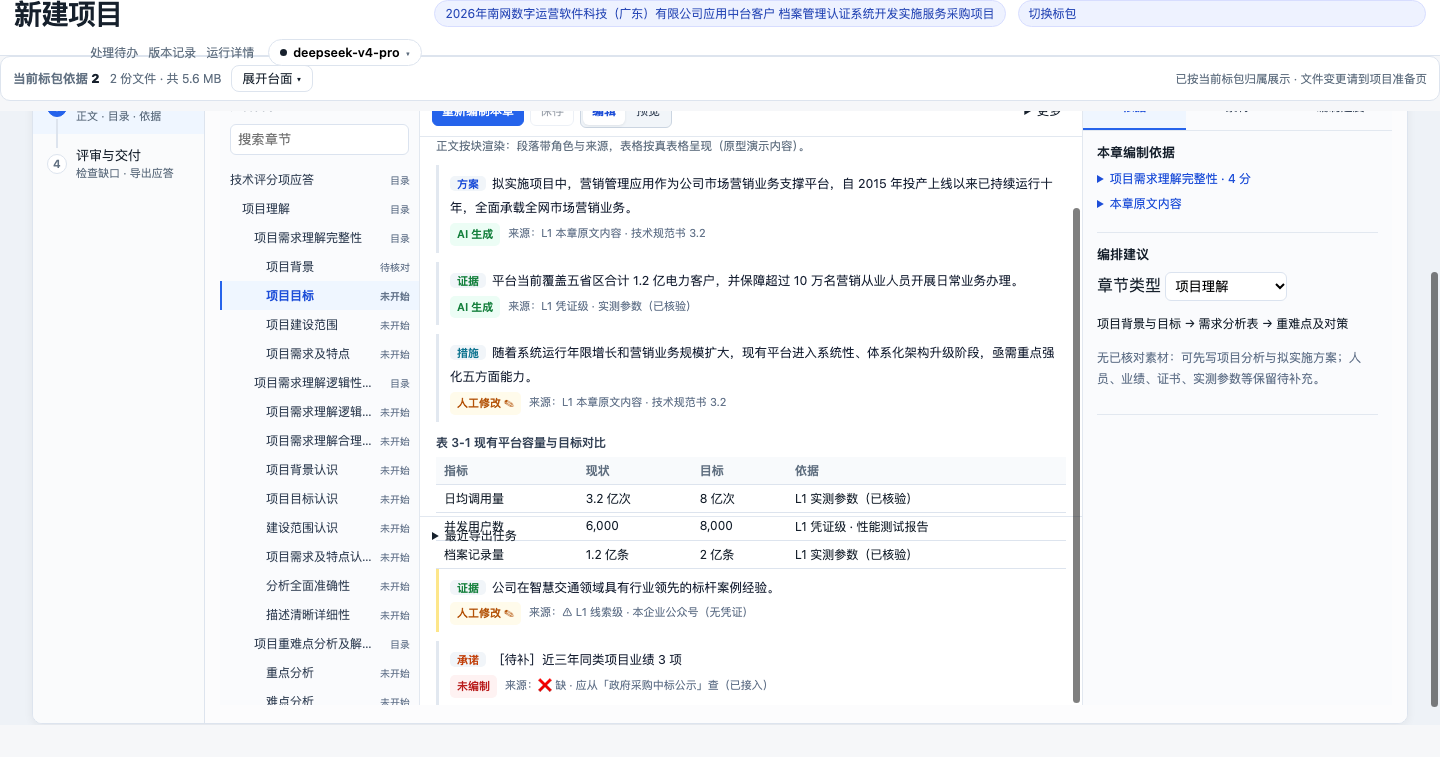
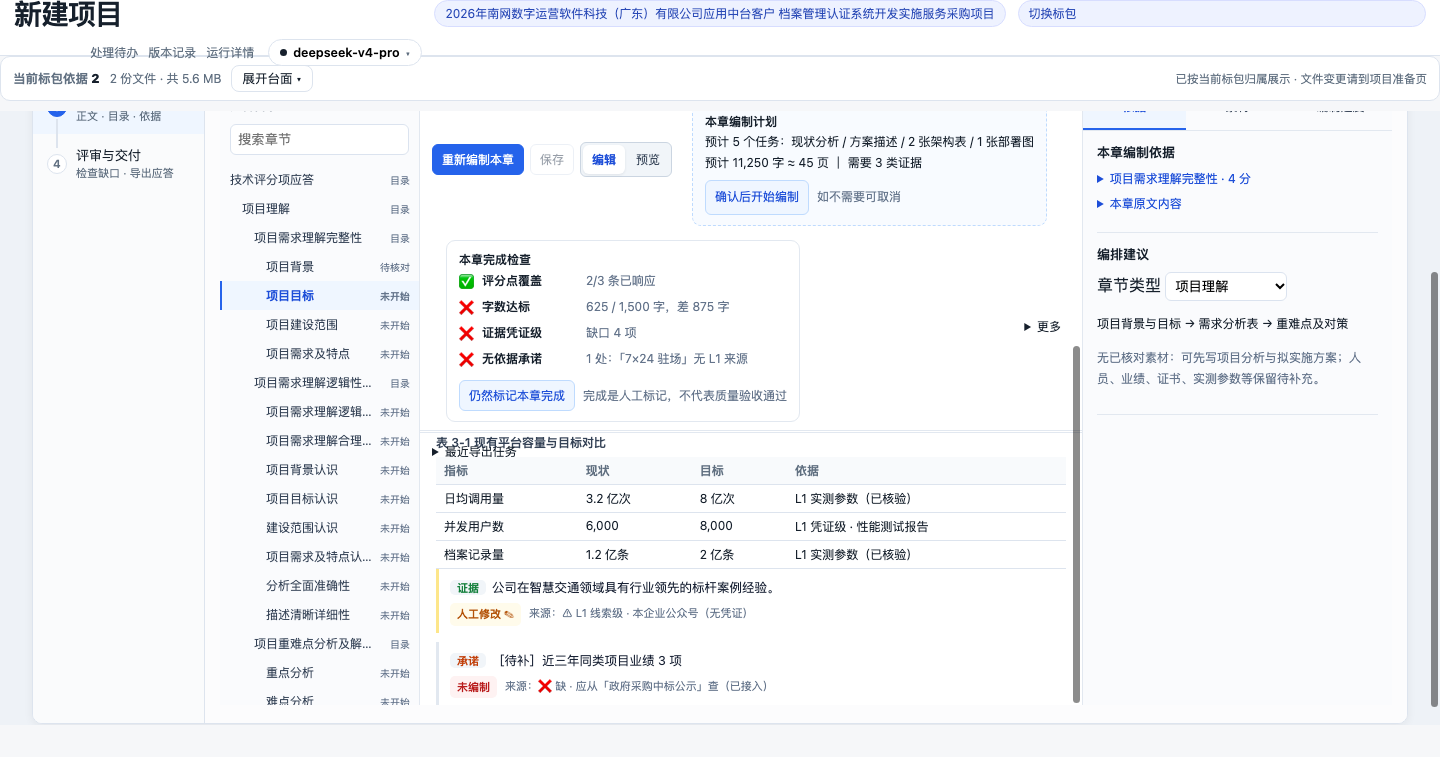
docs(design): 篇幅改为"目录行内一列"（按总篇幅分配），去掉单独的第二张表
用户要求：目录和篇幅结合，或者只在当前目录上增加单独一列，按总篇幅分配每个章节目录的页数。

## 改动
- **删掉**上一版单独的「篇幅要求」表（那是把目录复制了一遍）
- 在**真实目录的每一行**上插入一个页数单元 `.sr-erow-pages`（插在 `.sr-erow-acts` 之前，
  与行内「评分项 / 评分点」标签同一行、右对齐），165 行全部注入
- 可分配层级为一级/二级（18 章）：显示可编辑页数 + 「已调整」标记；
  更深层级不参与分配，单元格留空
- 阶段②只保留一条**控制条**：总页数、来源、按总篇幅分配、清除手工调整、
  「分配合计 N 页 / 共 M 章」与合计校验、确认篇幅
- 分配算法不变：分值 × 章节类型系数 → 最大余额法保证合计精确等于总页数；
  手工改过的行固定、其余章节吸收差额

## 实测
```
165 个真实目录行 → 165 个页数单元，其中 18 行可填
初始 120 页 → 分配合计 120「合计与需求一致」
总页数改 150 → 自动重算，合计精确 150
编写阶段不受影响：块级正文含真表格、AI 编制→计划预览、确认本章完成→四项检查
无 JS 错误
```

diff --git a/docs/design/mockups/prod-prototype.html b/docs/design/mockups/prod-prototype.html
@@ -11926,20 +11926,19 @@ GB/T 35274-2023《数据安全技术 大数据服务安全能力要求》
       <div class="response-confirm-bar"><div><strong>目录已确认</strong><span>可直接进入编写，随时查看目录与依据</span></div><button class="mw-btn primary" data-act="response-write">进入技术应答编写</button></div><div class="response-confirm-feedback" data-confirm-feedback="" role="status" aria-live="polite" hidden=""></div>
     <div class="response-coverage"><strong>重点与点对点检查</strong><span>重点要求前部承接 6 / 19</span><span>明确风险要求已安排 0 / 0</span><span>原文章节 68 / 68</span><span>标题、层级与顺序一致</span><span>要求归属 411 / 411</span><span class="sr-dim">仅检查承接位置，正文响应质量待编写后核对。</span></div><details class="response-landing-warning"><summary>建议前部突出 13 条重点要求 · 不影响确认</summary><p>以下要求已在点对点应答中安排，可结合评分章节补充说明，无需恢复原来的独立章节。</p><ul><li>1. 总则 &gt; 1.3. 对技术投标文件的编制要求</li><li>1. 总则 &gt; 1.3. 对技术投标文件的编制要求 &gt; 五、其他 · 第 1 条</li><li>2. 项目描述 &gt; 2.4. 项目依据</li><li>4. 项目实施 &gt; 4.1. 组织保障要求</li><li>4. 项目实施 &gt; 4.2. 项目组织人员要求 &gt; 4.2.1. 项目经理要求</li><li>4. 项目实施 &gt; 4.2. 项目组织人员要求 &gt; 4.2.2. 项目服务团队要求 · 第 1 条</li><li>4. 项目实施 &gt; 4.4. 联络会议 &gt; 4.4.2. 项目联络会</li><li>4. 项目实施 &gt; 4.5. 质量要求</li><li>4. 项目实施 &gt; 4.6. 项目验收要求 &gt; 4.6.1. 验收标准</li><li>5. 项目售后服务和技术支持 &gt; 5.1. 售后服务总体要求</li><li>5. 项目售后服务和技术支持 &gt; 5.2. 应急预案</li><li>5. 项目售后服务和技术支持 &gt; 5.4. 技术维护支持 &gt; 5.4.1. 技术维护支持服务</li><li>6. 安全保密要求 &gt; 6.2. 行为规范</li></ul></details>
     
-      <h5 class="sr-sec" id="budgetSec">篇幅要求</h5>
-      <div class="sr-note">目录已确认，可填写本应答的篇幅要求。</div>
-      <div class="sr-answer" style="gap:10px;flex-wrap:wrap">
+      <h5 class="sr-sec" id="budgetSec">篇幅</h5>
+      <div class="sr-note">按总篇幅分配到各章目录；可直接改某一章的页数，改过的章节保持不动。</div>
+      <div class="sr-answer" style="gap:10px;flex-wrap:wrap;align-items:center">
         <span>总页数 <input type="number" id="totalPg" value="120" style="width:80px;font:inherit;font-size:12.5px;padding:3px 8px;border:1px solid #e2e8f0;border-radius:6px;text-align:right" /> 页</span>
         <span class="sr-dim">来源：招标文件技术部分规定</span>
-        <button class="mw-btn" id="btnAlloc">按评分点分配</button>
+        <button class="mw-btn" id="btnAlloc">按总篇幅分配</button>
         <button class="mw-btn" id="btnResetAlloc">清除手工调整</button>
         <span class="sr-dim" id="sumLine"></span>
+        <span class="sr-dim" id="sumBanner">合计与需求一致</span>
+        <span style="flex:1"></span>
+        <button class="mw-btn primary" id="btnConfirmBudget">确认篇幅</button>
+        <span class="sr-dim" id="budgetNote">确认后与目录一并保存</span>
       </div>
-      <table class="sr-table"><thead><tr><th style="width:34%">章节</th><th>分值</th><th>建议页</th><th>你填页</th><th>需要证据</th></tr></thead>
-        <tbody id="budgetRows"></tbody></table>
-      <div class="sr-dim" id="sumBanner" style="padding:4px 10px">合计与需求一致</div>
-      <div class="sr-answer"><button class="mw-btn primary" id="btnConfirmBudget">确认篇幅</button>
-        <span class="sr-dim" id="budgetNote">确认后篇幅与证据需求一并保存</span></div>
 <div class="sr-dim" data-flash-for="generate"></div></div>
           </div>
           <div class="sr-stage on" data-stage="4">
@@ -15173,66 +15172,70 @@ GB/T 35274-2023《数据安全技术 大数据服务安全能力要求》
 <input type="file" accept=".pdf,.docx,.doc,.ppt,.pptx" multiple="" style="display: none;"><script>
 (function(){
   var $=function(id){return document.getElementById(id);};
-
-  /* 阶段切换：快照里应用的 JS 已剥离，这里只切换左右高亮与显示 */
+  /* 阶段切换（快照已剥离应用 JS） */
   function activate(stage){
-    document.querySelectorAll('.sr-rail-item').forEach(function(el){
-      el.classList.toggle('on', el.getAttribute('data-stage')===stage); });
-    document.querySelectorAll('.sr-stage').forEach(function(el){
-      el.classList.toggle('on', el.getAttribute('data-stage')===stage); });
+    document.querySelectorAll('.sr-rail-item').forEach(function(el){ el.classList.toggle('on', el.getAttribute('data-stage')===stage); });
+    document.querySelectorAll('.sr-stage').forEach(function(el){ el.classList.toggle('on', el.getAttribute('data-stage')===stage); });
   }
   document.querySelectorAll('.sr-rail-item').forEach(function(el){
     el.addEventListener('click', function(){ activate(el.getAttribute('data-stage')); }); });
-  activate('2');   // 打开即停在应答策划（先定目录与篇幅，再进编写）
 
-  /* ── 篇幅：章节从真实目录读出 ── */
+  /* ══ 篇幅：直接在真实目录行上加一列页数 ══ */
   var KIND={'技术评分项应答':1.2,'项目理解':0.7,'项目进度计划':1.0,'项目团队人员':0.9,'项目业绩':1.0,
     '开发要求':1.2,'技术实现方案':1.4,'重点及必须响应要求':1.1,'技术规范书点对点应答':1.3,
     '1.总则':0.6,'2.项目描述':0.8,'3.项目服务内容及要求':1.0,'4.项目实施':1.0};
-  var kindOf=function(c){ return KIND[c.name]||1.0; };
-  function readChapters(){
-    var out=[];
-    document.querySelectorAll('.sr-stage[data-stage="2"] .sr-erow').forEach(function(el){
-      var t=(el.querySelector('.sr-erow-title')||{}).textContent||''; t=t.trim(); if(!t) return;
-      var lvl=Number(el.getAttribute('data-level')||1); if(lvl>2) return; if(out.length>=14) return;
-      out.push({name:t,level:lvl,score:4+((out.length*7)%22),sug:0,mine:0,pinned:false,
-        need:['业绩','人员','实测'].slice(0,1+(out.length%3))});
+  var rows=[];
+  function collect(){
+    rows=[];
+    document.querySelectorAll('.sr-stage[data-stage="2"] .sr-erow').forEach(function(el,idx){
+      var t=(el.querySelector('.sr-erow-title')||{}).textContent||''; t=t.trim();
+      var lvl=Number(el.getAttribute('data-level')||1);
+      var cell=document.createElement('span');
+      cell.className='sr-erow-pages';
+      cell.style.cssText='font-size:11.5px;color:#475569;padding:0 8px;white-space:nowrap;font-variant-numeric:tabular-nums';
+      var acts=el.querySelector('.sr-erow-acts');
+      if(acts) el.insertBefore(cell,acts); else el.appendChild(cell);
+      rows.push({el:el,cell:cell,name:t,level:lvl,idx:idx,
+        score: lvl<=2 ? (4+((rows.length*7)%22)) : 0,
+        alloc: lvl<=2, mine:0, pinned:false});
     });
-    if(!out.length){ out=[{name:'项目理解',level:1,score:13,sug:0,mine:0,pinned:false,need:['业绩']},
-      {name:'技术实现方案',level:1,score:24,sug:0,mine:0,pinned:false,need:['业绩','人员','实测']},
-      {name:'技术规范书点对点应答',level:1,score:23,sug:0,mine:0,pinned:false,need:['业绩']}]; }
-    return out;
   }
-  var CH=readChapters();
+  var allocatable=function(){ return rows.filter(function(r){return r.alloc && r.name;}); };
+  function kindOf(r){ return KIND[r.name]||1.0; }
   function allocate(reset){
-    if(reset) CH.forEach(function(c){ c.pinned=false; });
+    var list=allocatable();
+    if(reset) list.forEach(function(r){ r.pinned=false; });
     var total=Number($('totalPg').value||0);
-    var free=CH.filter(function(c){return !c.pinned;});
-    var rest=Math.max(0,total-CH.filter(function(c){return c.pinned;}).reduce(function(n,c){return n+c.mine;},0));
-    var w=free.map(function(c){return Math.max(0.1,(c.score||0)*kindOf(c));});
+    var free=list.filter(function(r){return !r.pinned;});
+    var rest=Math.max(0,total-list.filter(function(r){return r.pinned;}).reduce(function(n,r){return n+r.mine;},0));
+    var w=free.map(function(r){return Math.max(0.1,(r.score||1)*kindOf(r));});
     var ws=w.reduce(function(a,b){return a+b;},0)||1;
     var ex=w.map(function(x){return rest*x/ws;});
     var fl=ex.map(Math.floor), left=rest-fl.reduce(function(a,b){return a+b;},0);
     ex.map(function(x,i){return {i:i,f:x-Math.floor(x)};}).sort(function(a,b){return b.f-a.f;})
       .forEach(function(o){ if(left>0){ fl[o.i]++; left--; } });
-    free.forEach(function(c,i){ c.mine=fl[i]; });
-    renderBudget();
+    free.forEach(function(r,i){ r.mine=fl[i]; });
+    render();
   }
-  function renderBudget(){
-    $('budgetRows').innerHTML=CH.map(function(c,i){
-      return '<tr><td style="padding-left:'+(10+(c.level-1)*16)+'px">'+c.name+'</td>'+
-        '<td class="sr-num">'+c.score+'</td><td class="sr-num">'+c.sug+'</td>'+
-        '<td class="sr-num"><input type="number" value="'+c.mine+'" data-i="'+i+'" style="width:64px;font:inherit;font-size:12.5px;padding:2px 6px;border:1px solid #e2e8f0;border-radius:6px;text-align:right" />'+
-        (c.pinned?' <span class="ui-pill is-ok">已调整</span>':'')+'</td>'+
-        '<td>'+c.need.map(function(n){return '<span class="ui-pill is-none" style="margin-right:4px">'+n+'</span>';}).join('')+'</td></tr>';
-    }).join('');
-    document.querySelectorAll('#budgetRows input[data-i]').forEach(function(inp){
-      inp.addEventListener('change',function(){
-        var c=CH[Number(inp.dataset.i)]; c.mine=Number(inp.value)||0; c.pinned=true; allocate(false); }); });
-    var sum=CH.reduce(function(n,c){return n+c.mine;},0), total=Number($('totalPg').value||0);
-    $('sumLine').innerHTML='章节合计 <b>'+sum+'</b> 页';
+  function render(){
+    rows.forEach(function(r){
+      if(!r.alloc){ r.cell.textContent=''; return; }
+      var span=document.createElement('span');
+      span.textContent='';
+      r.cell.innerHTML='<input type="number" value="'+r.mine+'" data-idx="'+r.idx+'" style="width:56px;font:inherit;font-size:11.5px;padding:1px 5px;border:1px solid #e2e8f0;border-radius:5px;text-align:right" /> 页'
+        + (r.pinned?' <span class="ui-pill is-ok">已调整</span>':'');
+      r.cell.querySelector('input').addEventListener('click',function(e){e.stopPropagation();});
+      r.cell.querySelector('input').addEventListener('change',function(e){
+        e.stopPropagation();
+        r.mine=Number(e.target.value)||0; r.pinned=true; allocate(false);
+      });
+    });
+    var list=allocatable();
+    var sum=list.reduce(function(n,r){return n+r.mine;},0);
+    var total=Number($('totalPg').value||0);
+    $('sumLine').innerHTML='分配合计 <b>'+sum+'</b> 页 / 共 '+list.length+' 章';
     var b=$('sumBanner');
-    b.textContent = sum===total ? '合计与需求一致' : ('⚠ 章节合计 '+sum+' 页，与需求 '+total+' 页相差 '+(sum-total>0?'+':'')+(sum-total)+' 页');
+    b.textContent = sum===total ? '合计与需求一致' : ('⚠ 与需求相差 '+(sum-total>0?'+':'')+(sum-total)+' 页');
     b.style.color = sum===total ? '#15803d' : '#b45309';
   }
   $('totalPg').addEventListener('input',function(){ allocate(false); });
@@ -15240,23 +15243,21 @@ GB/T 35274-2023《数据安全技术 大数据服务安全能力要求》
   $('btnResetAlloc').addEventListener('click',function(){ allocate(true); });
   $('btnConfirmBudget').addEventListener('click',function(){
     $('budgetNote').innerHTML='<span style="color:#15803d">✅ 已确认篇幅</span>'; });
-  allocate(true);
+  collect(); allocate(true);
 
-  /* ── 编写：块级正文（角色 + 来源徽标 + 真表格）── */
+  /* ══ 编写：块级正文 / 计划预览 / 完成检查 ══ */
   var BLOCKS=[
     {role:'方案',color:'#1d4ed8',text:'拟实施项目中，营销管理应用作为公司市场营销业务支撑平台，自 2015 年投产上线以来已持续运行十年，全面承载全网市场营销业务。',src:'L1 本章原文内容 · 技术规范书 3.2',by:'ai'},
     {role:'证据',color:'#15803d',text:'平台当前覆盖五省区合计 1.2 亿电力客户，并保障超过 10 万名营销从业人员开展日常业务办理。',src:'L1 凭证级 · 实测参数（已核验）',by:'ai'},
     {role:'措施',color:'#0e7490',text:'随着系统运行年限增长和营销业务规模扩大，现有平台进入系统性、体系化架构升级阶段，亟需重点强化五方面能力。',src:'L1 本章原文内容 · 技术规范书 3.2',by:'human'},
     {table:true,title:'表 3-1 现有平台容量与目标对比',head:['指标','现状','目标','依据'],
-      rows:[['日均调用量','3.2 亿次','8 亿次','L1 实测参数（已核验）'],
-            ['并发用户数','6,000','8,000','L1 凭证级 · 性能测试报告'],
-            ['档案记录量','1.2 亿条','2 亿条','L1 实测参数（已核验）']]},
+      rows:[['日均调用量','3.2 亿次','8 亿次','L1 实测参数（已核验）'],['并发用户数','6,000','8,000','L1 凭证级 · 性能测试报告'],['档案记录量','1.2 亿条','2 亿条','L1 实测参数（已核验）']]},
     {role:'证据',color:'#15803d',text:'公司在智慧交通领域具有行业领先的标杆案例经验。',src:'⚠ L1 线索级 · 本企业公众号（无凭证）',by:'human',warn:true},
     {role:'承诺',color:'#c2410c',text:'［待补］近三年同类项目业绩 3 项',src:'❌ 缺 · 应从「政府采购中标公示」查（已接入）',by:'todo'}
   ];
-  function pill(txt,bg,fg){ return '<span style="font-size:11px;padding:1px 7px;border-radius:5px;background:'+bg+';color:'+fg+';font-weight:600">'+txt+'</span>'; }
+  function pill(t,bg,fg){ return '<span style="font-size:11px;padding:1px 7px;border-radius:5px;background:'+bg+';color:'+fg+';font-weight:600">'+t+'</span>'; }
   function renderBlocks(){
-    var box=$('blockView');
+    var box=$('blockView'); if(!box) return;
     $('segCount').textContent=BLOCKS.length;
     $('nAi').textContent=BLOCKS.filter(function(b){return !b.table&&b.by==='ai';}).length;
     $('nHuman').textContent=BLOCKS.filter(function(b){return !b.table&&b.by==='human';}).length;
@@ -15264,43 +15265,25 @@ GB/T 35274-2023《数据安全技术 大数据服务安全能力要求》
     $('nTable').textContent=BLOCKS.filter(function(b){return b.table;}).length;
     var html='<div class="sr-note" style="margin-bottom:10px">正文按块渲染：段落带角色与来源，表格按真表格呈现（原型演示内容）。</div>';
     BLOCKS.forEach(function(b){
-      if(b.table){
-        html+='<div style="font-size:12px;color:#334155;font-weight:600;margin:10px 0 2px">'+b.title+'</div>'+
-          '<table class="sr-table"><thead><tr>'+b.head.map(function(x){return '<th>'+x+'</th>';}).join('')+
-          '</tr></thead><tbody>'+b.rows.map(function(r){return '<tr>'+r.map(function(x){return '<td>'+x+'</td>';}).join('')+'</tr>';}).join('')+'</tbody></table>';
-        return;
-      }
-      var by = b.by==='ai'?pill('AI 生成','#ecfdf5','#15803d') : b.by==='human'?pill('人工修改 ✎','#fffbeb','#b45309') : pill('未编制','#fef2f2','#b91c1c');
+      if(b.table){ html+='<div style="font-size:12px;color:#334155;font-weight:600;margin:10px 0 2px">'+b.title+'</div><table class="sr-table"><thead><tr>'+
+        b.head.map(function(x){return '<th>'+x+'</th>';}).join('')+'</tr></thead><tbody>'+
+        b.rows.map(function(r){return '<tr>'+r.map(function(x){return '<td>'+x+'</td>';}).join('')+'</tr>';}).join('')+'</tbody></table>'; return; }
+      var by=b.by==='ai'?pill('AI 生成','#ecfdf5','#15803d'):b.by==='human'?pill('人工修改 ✎','#fffbeb','#b45309'):pill('未编制','#fef2f2','#b91c1c');
       html+='<div style="border-left:3px solid '+(b.warn?'#fde68a':'#e2e8f0')+';padding:7px 0 7px 11px;margin-bottom:9px;font-size:12.5px">'+
-        '<span style="font-size:11px;font-weight:600;padding:1px 7px;border-radius:5px;background:#f1f5f9;color:'+b.color+';margin-right:6px">'+b.role+'</span>'+
-        b.text+'<div style="font-size:11px;color:#64748b;margin-top:3px;display:flex;gap:8px;flex-wrap:wrap">'+by+
-        '<span>来源：'+b.src+'</span></div></div>';
+        '<span style="font-size:11px;font-weight:600;padding:1px 7px;border-radius:5px;background:#f1f5f9;color:'+b.color+';margin-right:6px">'+b.role+'</span>'+b.text+
+        '<div style="font-size:11px;color:#64748b;margin-top:3px;display:flex;gap:8px;flex-wrap:wrap">'+by+'<span>来源：'+b.src+'</span></div></div>';
     });
     box.innerHTML=html;
   }
   renderBlocks();
-
-  var aiBtn=document.querySelector('[data-action="ai"]');
-  if(aiBtn) aiBtn.addEventListener('click',function(){
-    var box=$('planBox'); box.style.display = box.style.display==='none' ? 'block' : 'none';
-    box.innerHTML='<b>本章编制计划</b><div>预计 5 个任务：现状分析 / 方案描述 / 2 张架构表 / 1 张部署图</div>'+
-      '<div>预计 11,250 字 ≈ 45 页 ｜ 需要 3 类证据</div>'+
-      '<div style="margin-top:7px"><button class="mw-btn primary">确认后开始编制</button>'+
-      '<span style="color:#64748b;margin-left:8px">如不需要可取消</span></div>';
-  });
-  var doneBtn=document.querySelector('[data-action="complete"]');
-  if(doneBtn) doneBtn.addEventListener('click',function(){
-    var box=$('doneBox'); box.style.display = box.style.display==='none' ? 'block' : 'none';
-    var rows=[['✅','评分点覆盖','2/3 条已响应（重难点及对策缺对策半段）'],
-      ['❌','字数达标','625 / 1,500 字，差 875 字'],
-      ['❌','证据凭证级','缺口 4 项（业绩、人员需补）'],
-      ['❌','无依据承诺','1 处：「7×24 驻场」无 L1 来源']];
-    box.innerHTML='<b>本章完成检查</b>'+rows.map(function(r){
-      return '<div style="display:flex;gap:8px;align-items:center;padding:3px 0">'+r[0]+
-        '<b style="min-width:96px">'+r[1]+'</b><span style="color:#64748b">'+r[2]+'</span></div>';}).join('')+
-      '<div style="margin-top:8px"><button class="mw-btn primary">仍然标记本章完成</button>'+
-      '<span style="color:#64748b;margin-left:8px">完成是人工标记，不代表质量验收通过</span></div>';
-  });
+  var ai=document.querySelector('[data-action="ai"]');
+  if(ai) ai.addEventListener('click',function(){ var b=$('planBox'); b.style.display=b.style.display==='none'?'block':'none';
+    b.innerHTML='<b>本章编制计划</b><div>预计 5 个任务：现状分析 / 方案描述 / 2 张架构表 / 1 张部署图</div><div>预计 11,250 字 ≈ 45 页 ｜ 需要 3 类证据</div><div style="margin-top:7px"><button class="mw-btn primary">确认后开始编制</button><span style="color:#64748b;margin-left:8px">如不需要可取消</span></div>'; });
+  var dn=document.querySelector('[data-action="complete"]');
+  if(dn) dn.addEventListener('click',function(){ var b=$('doneBox'); b.style.display=b.style.display==='none'?'block':'none';
+    var rs=[['✅','评分点覆盖','2/3 条已响应'],['❌','字数达标','625 / 1,500 字，差 875 字'],['❌','证据凭证级','缺口 4 项'],['❌','无依据承诺','1 处：「7×24 驻场」无 L1 来源']];
+    b.innerHTML='<b>本章完成检查</b>'+rs.map(function(r){return '<div style="display:flex;gap:8px;align-items:center;padding:3px 0">'+r[0]+'<b style="min-width:96px">'+r[1]+'</b><span style="color:#64748b">'+r[2]+'</span></div>';}).join('')+'<div style="margin-top:8px"><button class="mw-btn primary">仍然标记本章完成</button><span style="color:#64748b;margin-left:8px">完成是人工标记，不代表质量验收通过</span></div>'; });
+  activate('2');
 })();
 </script>
 </body></html>
